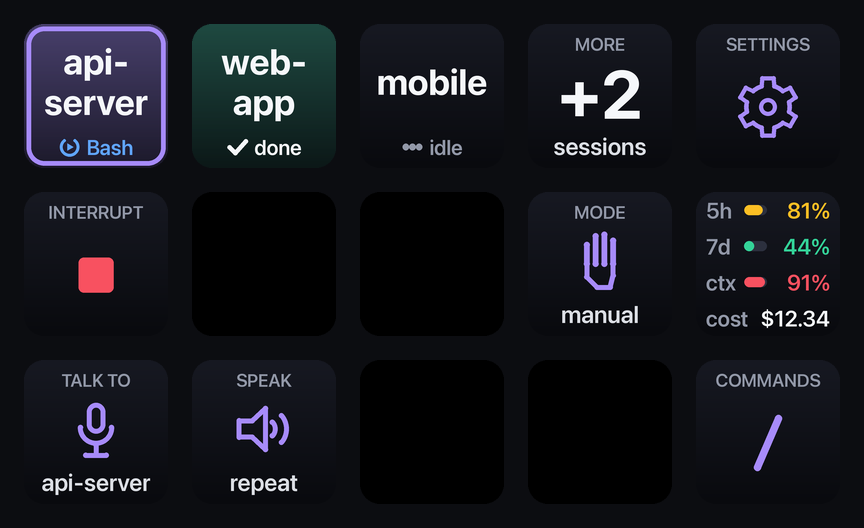
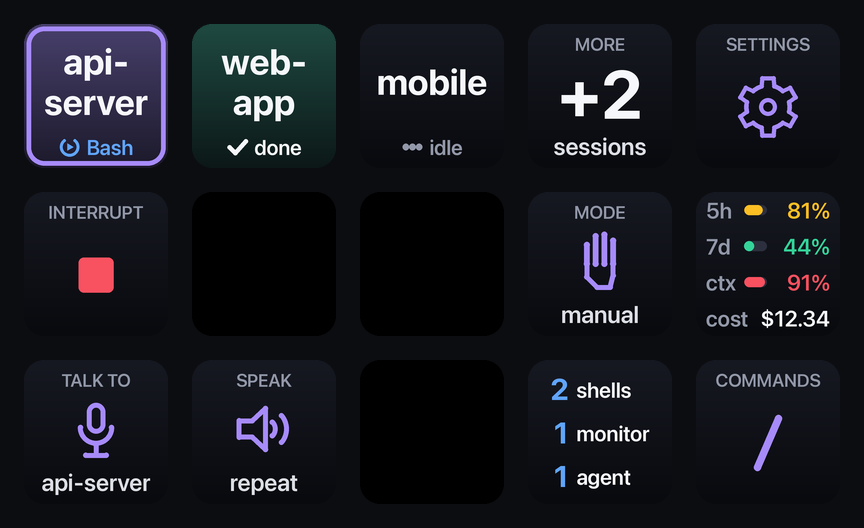
Show background shells, monitors and agents on one key
The selected session's background work is on one key in the bottom row:
the number of shells, monitors and agents, one row each. It is dark when
nothing runs; a tap reads the counts out.

Shells and monitors are read from Claude Code's line under the prompt
("2 shells, 1 monitor"), like the mode; agents come from the subagent
hooks, or from the screen's count of background agents if that is higher.
A result note now takes another free key instead of covering this one.

Changed region(s): [[0.5938, 0.6667, 0.7812, 0.8485], [0.625, 0.8788, 0.75, 0.9394]]

diff --git a/src/decktate/ui/board.py b/src/decktate/ui/board.py
@@ -35,6 +35,7 @@ BUSY = (State.WORKING, State.PERMISSION, State.QUESTION)  # Claude is in a turn:
 DETACHED_KEEP_DAYS = 30  # how long a detached session is remembered
 TALK_COMMANDS = ("/btw",)  # slash commands that take what you say: /btw asks a side question while Claude keeps working
 QUEUE_GUESS_S = 45  # without a readable screen: how long "send now" is offered after the deck queued text
+RUNNING_KEY = 13  # shells, monitors and subagents of the selected session (a result note takes its place for a moment)
 DISCARD_KEY = 12  # always here: one key away from the mic key, so that a slip of the finger does not drop a dictation
 RETURN_S = 4  # a session that ends and starts again in the same terminal within this time keeps its key and stays selected
 LATCH_MAX_S = 300  # a dictation started with a tap is dropped if nobody ends it for this long
@@ -103,6 +104,7 @@ class Board:
         self._alive = alive or discover_mod.alive
         self._screen_of = screen_of or screen_text  # (session id, terminal) -> the text on its screen, or None
         self._screen_queued: set[str] = set()  # sessions whose screen says a message is waiting to be sent
+        self._background: dict[str, dict] = {}  # session -> what its screen says runs in the background: {"shells": 2, ...}
         self._watch_now = threading.Event()
         self._watch_first: str | None = None
         self._closed = False
@@ -322,6 +324,9 @@ class Board:
         if seen["mode"] and seen["mode"] != s.mode:
             s.mode = seen["mode"]
             self._modes.add(seen["mode"])
+            self.hub.version += 1
+        if seen["running"] is not None and seen["running"] != self._background.get(s.id):
+            self._background[s.id] = seen["running"]
             self.hub.version += 1
         if seen["queued"] != (s.id in self._screen_queued):
             (self._screen_queued.add if seen["queued"] else self._screen_queued.discard)(s.id)
@@ -798,6 +803,27 @@ class Board:
         if not self.sync:  # then look what Claude Code really switched to
             threading.Timer(0.9, self.watch_now, args=(s.id,)).start()
 
+    def background(self, s: Session) -> dict:
+        """What the session has running besides its own turn: background shells and monitors (as its terminal
+        screen counts them) and subagents (from the hooks, or the screen's count of background agents if higher).
+        Only what is not zero: {"shells": 2, "agents": 1}."""
+        seen = self._background.get(s.id) or {}
+        counts = {"shells": seen.get("shells", 0), "monitors": seen.get("monitors", 0),
+                  "agents": max(s.subagents, seen.get("agents", 0)), "tasks": seen.get("tasks", 0)}
+        return {k: v for k, v in counts.items() if v}
+
+    def _running_key(self, s: Session | None) -> Key | None:
+        """One key for everything that runs in the background of the selected session; dark when nothing does.
+        Tap: hear it."""
+        if not s:
+            return None
+        counts = self.background(s)
+        if not counts:
+            return None
+        said = " and ".join(f"{n} {name if n != 1 else name[:-1]}" for name, n in counts.items())
+        return Key(Face(kind="counts", stats=counts, status=Status.RUNNING),
+                   tap=lambda: self.say(f"{self.name_of(s)} has {said} running."))
+
     def _stats_key(self, s: Session | None) -> Key | None:
         """Quota, context and cost at a glance; tap for the full stats page."""
         if not s:
@@ -855,6 +881,7 @@ class Board:
                               tap=lambda: (self._type("ctrl_enter"), self.toast("send now")))
         keys[4] = Key(Face(kind="icon", icon="gear", label="settings", accent=ACCENT), tap=lambda: self._go("settings"))
         keys[8] = self._mode_key(cur)  # permission mode of the selected session; tap = Shift+Tab
+        keys[RUNNING_KEY] = self._running_key(cur)
         keys[9] = self._stats_key(cur)
         if self.review is not None:
             keys[10] = Key(Face(kind="icon", icon="send", status=Status.OK, solid=True, label="send"), tap=self._send_review)

diff --git a/tests/test_decktate.py b/tests/test_decktate.py
@@ -557,7 +557,7 @@ SCREEN = """⏺ Done.
 def test_a_mode_switched_in_the_terminal_shows_on_the_deck(tmp_path):
     from decktate.inject import read_screen
 
-    assert read_screen(SCREEN % ("", "⏸ plan mode on (shift+tab to cycle)")) == {"mode": "plan", "queued": False}
+    assert read_screen(SCREEN % ("", "⏸ plan mode on (shift+tab to cycle)")) == {"mode": "plan", "queued": False, "running": {}}
     assert read_screen(SCREEN % ("x", "⏵⏵ auto mode on (shift+tab to cycle) · esc to interrupt"))["mode"] == "auto"
     assert read_screen(SCREEN % ("", "⏵⏵ accept edits on (shift+tab to cycle)"))["mode"] == "acceptEdits"
     assert read_screen(SCREEN % ("", "⏵⏵ bypass permissions on (shift+tab to cycle)"))["mode"] == "bypassPermissions"
@@ -598,6 +598,52 @@ def test_a_mode_switched_in_the_terminal_shows_on_the_deck(tmp_path):
     assert a.mode == "auto"
     r.tap(MODE)                                                     # the deck has seen "auto": Shift+Tab leads on to manual
     assert r.face(MODE).caption == "manual"
+
+
+def test_shells_monitors_and_agents_on_one_key(tmp_path):
+    from decktate.inject import read_screen
+
+    foot = "⏵⏵ auto mode on · %s · esc to interrupt · ↓ to manage"
+    assert read_screen(SCREEN % ("", foot % "1 shell"))["running"] == {"shells": 1}
+    assert read_screen(SCREEN % ("", foot % "2 shells, 1 monitor"))["running"] == {"shells": 2, "monitors": 1}
+    assert read_screen(SCREEN % ("", foot % "3 background agents"))["running"] == {"agents": 3}
+    assert read_screen(SCREEN % ("", foot % "4 background tasks"))["running"] == {"tasks": 4}
+    assert read_screen(SCREEN % ("", "⏸ plan mode on (shift+tab to cycle)"))["running"] == {}     # nothing runs
+    assert read_screen("Do you want to proceed?\n❯ 1. Yes")["running"] is None                     # cannot be told
+    assert read_screen(SCREEN % ("", foot % "1 shell"))["mode"] == "auto"                           # the mode is still read
+
+    RUN = 13
+    r = Rig(tmp_path)
+    r.hub.handle({"hook_event_name": "SessionStart", "session_id": "a", "cwd": "/w/a"})
+    a = r.hub.sessions["a"]
+    r.board.tick()
+    assert r.face(RUN) is None                                     # nothing in the background: the key is dark
+    r.screens["a"] = SCREEN % ("", foot % "2 shells, 1 monitor")
+    r.board._watch(a)
+    r.hub.handle({"hook_event_name": "SubagentStart", "session_id": "a"})
+    r.board.tick()
+    assert (r.face(RUN).kind, r.face(RUN).stats) == ("counts", {"shells": 2, "monitors": 1, "agents": 1})
+    r.tap(RUN)                                                     # tap: hear it
+    assert r.speaker.said[-1] == "a has 2 shells and 1 monitor and 1 agent running."
+    r.screens["a"] = "Do you want to proceed?\n❯ 1. Yes"           # a dialog hides the footer: the count is kept
+    r.board._watch(a)
+    r.board.tick()
+    assert r.face(RUN).stats["shells"] == 2
+    r.hub.handle({"hook_event_name": "SubagentStop", "session_id": "a"})
+    r.screens["a"] = SCREEN % ("", foot % "1 shell")
+    r.board._watch(a)
+    r.board.tick()
+    assert r.face(RUN).stats == {"shells": 1}
+    r.hold(MIC, 1.0)                                               # a result note takes another free key, not this one
+    assert r.face(RUN).kind == "counts" and r.face(DISCARD).text.startswith("sent to")
+    r.advance(3)
+    r.screens["a"] = SCREEN % ("", "⏵⏵ auto mode on (shift+tab to cycle)")   # the shell finished
+    r.board._watch(a)
+    r.board.tick()
+    assert r.face(RUN) is None
+    from decktate.ui.render import render_key, Face
+    for counts in ({"shells": 1}, {"shells": 12, "monitors": 3}, {"shells": 2, "monitors": 1, "agents": 4, "tasks": 7}):
+        assert render_key(Face(kind="counts", stats=counts, status=Status.RUNNING), (72, 72)).size == (72, 72)
 
 
 def test_stats_are_there_again_after_a_restart_and_the_quota_is_shared(tmp_path):

diff --git a/src/decktate/ui/render.py b/src/decktate/ui/render.py
@@ -50,7 +50,7 @@ def font(size: int, weight: str = "Bold") -> ImageFont.ImageFont:
 class Face:
     """Declarative description of one key."""
 
-    kind: str = "stat"  # stat | ring | icon | text | stats | bars | session
+    kind: str = "stat"  # stat | ring | icon | text | stats | bars | session | counts
     status: Status | None = None
     value: str = ""  # the one big figure
     label: str = ""  # tiny caption above
@@ -151,6 +151,22 @@ def _stats_summary(d, st: dict, W: float, H: float, u: float) -> None:
     y = step * 3.5
     d.text((left, y), "cost", font=f, fill=MUTED, anchor="lm")
     d.text((right, y), "–" if cost is None else f"${cost:.2f}" if cost < 1000 else f"${cost:.0f}", font=f, fill=TEXT, anchor="rm")
+
+
+def _counts(d, counts: dict, W: float, H: float, u: float, colour) -> None:
+    """What runs in the background, one row each: the number, large, and the word, e.g.  2 shells / 1 monitor / 3 agents."""
+    rows = [(n, name if n != 1 else name[:-1]) for name, n in counts.items()][:4]
+    size = {1: 20, 2: 18, 3: 15}.get(len(rows), 12)
+    fn, fw = font(int(size * u), "Bold"), font(int(min(11.5, size * 0.72) * u), "Semibold")
+    num_w = max(d.textlength(str(n), font=fn) for n, _ in rows)
+    word_w = max(d.textlength(word, font=fw) for _, word in rows)
+    x0 = (W - (num_w + 4 * u + word_w)) / 2
+    step = min(H / len(rows), size * u * 1.45)
+    y = H / 2 - step * (len(rows) - 1) / 2
+    for n, word in rows:
+        d.text((x0 + num_w, y), str(n), font=fn, fill=colour, anchor="rm")
+        d.text((x0 + num_w + 4 * u, y + 0.5 * u), word, font=fw, fill=TEXT, anchor="lm")
+        y += step
 
 
 def _level_bars(d, levels: list[float], cx: float, top: float, bottom: float, W: float, u: float, colour) -> None:
@@ -344,6 +360,8 @@ def _render_key(face: Face, size, phase: float) -> Image.Image:
             _text(d, (cx, mid), face.value, 17 * u, TEXT, "Bold", max_w=2 * r - wd * 2.6)
     elif face.kind == "stats":
         _stats_summary(d, face.stats or {}, W, H, u)
+    elif face.kind == "counts":
+        _counts(d, face.stats or {}, W, H, u, colour)
     elif face.kind == "session":
         _session(d, face, W, H, u, colour)
     elif face.kind == "bars":

diff --git a/src/decktate/inject/__init__.py b/src/decktate/inject/__init__.py
@@ -20,6 +20,7 @@ from __future__ import annotations
 
 import json
 import os
+import re
 import shutil
 import subprocess
 import time
@@ -328,9 +329,14 @@ MODE_WORDS = (("accept edits on", "acceptEdits"), ("plan mode on", "plan"), ("au
               ("bypass permissions on", "bypassPermissions"), ("don't ask", "dontAsk"))
 
 
+RUNNING_WORDS = (("shells", r"\b(\d+) shells?\b"), ("monitors", r"\b(\d+) monitors?\b"),
+                 ("agents", r"\b(\d+) (?:background )?agents?\b"), ("tasks", r"\b(\d+) (?:background )?tasks?\b"))
+
+
 def read_screen(text: str) -> dict:
     """What Claude Code shows at the bottom of its screen: {"mode": the permission mode or None if it cannot be
-    told, "queued": a message is waiting ("... to send now")}.
+    told, "queued": a message is waiting ("... to send now"), "running": what runs in the background, e.g.
+    {"shells": 2, "monitors": 1} ({} = nothing, None = cannot be told)}.
 
     The mode line is under the prompt box ("⏵⏵ auto mode on (shift+tab to cycle)"); the normal mode shows
     nothing there, so it is only reported when the prompt box itself is on the screen (not while a dialog is)."""
@@ -343,7 +349,14 @@ def read_screen(text: str) -> dict:
         if b - a <= 12 and any(lines[i][:1] in "❯>" for i in range(a + 1, b)):
             box = (a, b)
     footer = low[box[1] + 1:] if box else low
-    for words, mode in MODE_WORDS:
-        if any(words in ln for ln in footer):
-            return {"mode": mode, "queued": queued}
-    return {"mode": "default" if box else None, "queued": queued}
+    # what runs in the background, as Claude Code counts it next to the mode: "· 2 shells, 1 monitor ·",
+    # "· 1 background agent ·", or "· 3 background tasks ·" when they are of different kinds
+    running = None
+    if box:
+        running = {}
+        for name, pattern in RUNNING_WORDS:
+            found = [int(m.group(1)) for ln in footer for m in re.finditer(pattern, ln)]
+            if found:
+                running[name] = max(found)
+    mode = next((mode for words, mode in MODE_WORDS if any(words in ln for ln in footer)), "default" if box else None)
+    return {"mode": mode, "queued": queued, "running": running}

diff --git a/tests/shots.py b/tests/shots.py
@@ -79,7 +79,14 @@ def main(out: Path) -> list[Path]:
                   "context_window": {"used_percentage": 91},
                   "rate_limits": {"five_hour": {"used_percentage": 81, "resets_at": time.time() + 7800},
                                   "seven_day": {"used_percentage": 44}}})
+    r.screens["s1"] = "─" * 40 + "\n❯ \n" + "─" * 40 + "\n⏵⏵ auto mode on · 2 shells, 1 monitor · esc to interrupt"
+    r.board._watch(h.sessions["s1"])
+    h.handle({"hook_event_name": "SubagentStart", "session_id": "s1"})
+    h.sessions["s1"].mode = "default"
     shot("1-main")
+    r.screens["s1"] = None
+    r.board._background.clear()
+    h.handle({"hook_event_name": "SubagentStop", "session_id": "s1"})
     t, box = r.post(BASH)
     shot("2-permission")
     r.deck.press(7)

diff --git a/README.md b/README.md
@@ -75,7 +75,7 @@ Settings > Privacy & Security > Accessibility.
 ```
 [ session ] [ session       ] [ session ] [ +N more ] [ settings ]
 [ reject  ] [ approve       ] [ always  ] [ mode    ] [ stats    ]
-[ talk    ] [ speak         ] [ discard ] [ result  ] [ commands ]
+[ talk    ] [ speak         ] [ discard ] [ running ] [ commands ]
 ```
 
 A key that has nothing to do right now stays dark.
@@ -136,6 +136,9 @@ A key that has nothing to do right now stays dark.
   auto) and switches to the next one, like Shift+Tab.
 - **Stats** shows the 5-hour and 7-day quota, context and cost at a glance.
   Tap it for the details.
+- **Running** (bottom row) appears while the session has something going
+  on in the background: the number of shells, monitors and subagents. Tap it
+  to hear it.
 - **Commands** opens your slash commands (`/compact`, `/clear`, ...).
   **/btw** is special: hold it and ask a question out loud. Claude answers
   on the side while it keeps working on its task.

diff --git a/docs/ARCHITECTURE.md b/docs/ARCHITECTURE.md
@@ -122,7 +122,7 @@ Claude Code fires no hook when the mode is switched in the terminal, or when
 a typed message waits in its queue. In iTerm2 and Terminal.app Decktate reads
 the visible text of the session's tab (AppleScript `contents`) and looks at
 the lines under the prompt box for Claude Code's own wording ("plan mode on",
-"auto mode on", "... to send now"). The status line is not parsed, so a
+"auto mode on", "... to send now", "2 shells, 1 monitor"). The status line is not parsed, so a
 custom one does not matter. The selected session is read about once a second
 and at once when it is selected; the others every six seconds.
 
